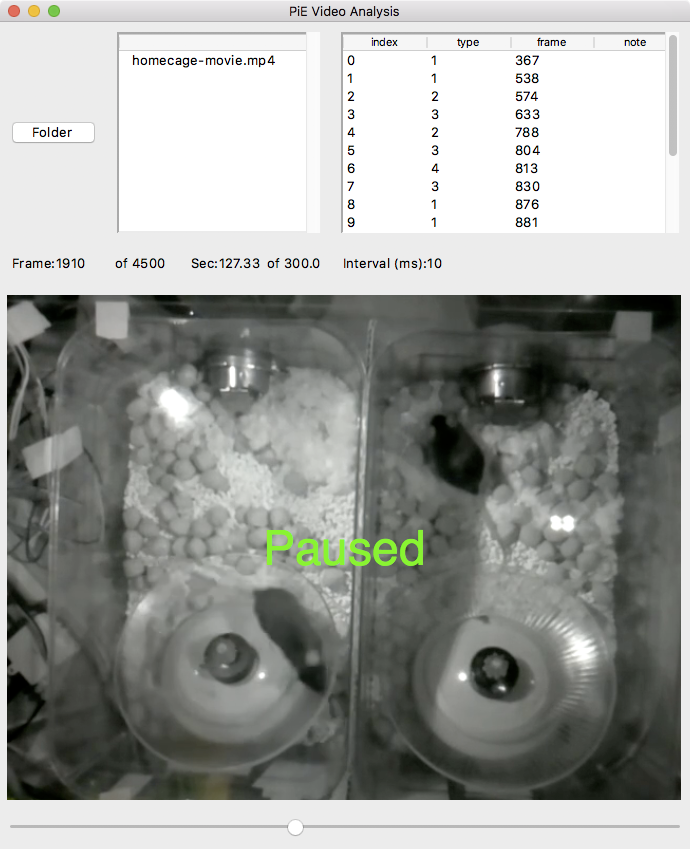
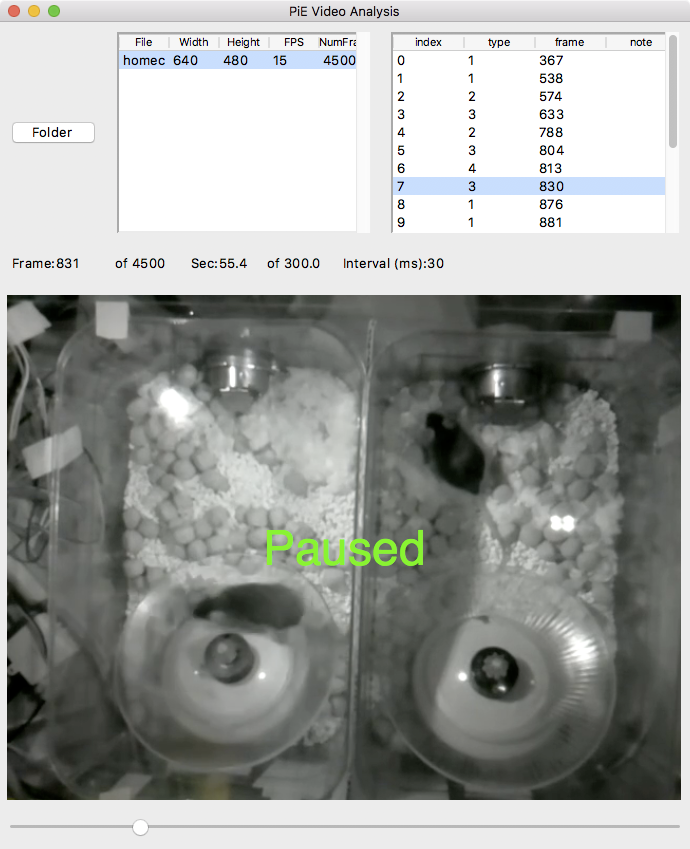
readme

diff --git a/video-player/VideoApp.py b/video-player/VideoApp.py
@@ -61,9 +61,9 @@ class VideoApp:
 		# parameters from FileVideoStream
 		path = vs.streamParams['path']
 		fileName = vs.streamParams['fileName']
-		width = vs.streamParams['width']
-		height = vs.streamParams['height']
-		fps = vs.streamParams['fps']
+		width = int(vs.streamParams['width'])
+		height = int(vs.streamParams['height'])
+		fps = int(vs.streamParams['fps'])
 		numFrames = vs.streamParams['numFrames']
 
 		self.eventList = bEventList.bEventList(path)
@@ -112,10 +112,18 @@ class VideoApp:
 		
 		#
 		# video file tree
-		left_tree = ttk.Treeview(upper_frame)
+		videoColumns = ("File", "Width", "Height", "FPS", "NumFrames")
+		left_tree = ttk.Treeview(upper_frame, columns=videoColumns, show='headings')
 		left_tree.grid(row=0,column=1, sticky="nsew", padx=myPadding, pady=myPadding)
 
-		left_tree.insert("" , "end", text=fileName, values=(width,height,fps,numFrames))
+		for column in videoColumns:
+			left_tree.heading(column, text=column)
+			left_tree.column(column, width=50)
+
+		#left_tree.heading("File", text="File")
+		#left_tree.column("File", width=25)
+		
+		left_tree.insert("" , "end", text=fileName, values=(fileName, width,height,fps,numFrames))
 
 		# video file tree scroll bar
 		videoFileTree_scrollBar = ttk.Scrollbar(upper_frame, orient="vertical", command = left_tree.yview)

diff --git a/video-player/readme.md b/video-player/readme.md
@@ -4,7 +4,43 @@ This is a Python based video player that allows frames to be annotated.
 
 ## Screenshot
 
-<IMG SRC="img/player-screenshot.png" width=500>
+Video files are listed in upper left. Annotations of current video are in upper right. Selecting an annotation from the list will snap the video to the frame of the annotation.
+
+<IMG SRC="img/player-screenshot.png" width=550>
+
+## Keyboard commands
+
+Controlling video
+
+```
+space: play/pause
+left/right arrows: Backward/forward in video
+shift + left/right arrows: Larger backward/forward in video
+f: Play video faster, sets interval (ms)
+s: Play video slower, sets interval (ms)
+```
+
+Editing annotations
+
+```
+1/2/3/4/5: Create new annotation at current frame
+n: Set note of current selected annotation
+```
+
+## Saving annotations
+
+All annotations are saved in a text file (.txt) with the same base name as the video file. For example
+
+```
+#
+index,path,cseconds,type,frame,note,
+0,/Users/cudmore/Dropbox/PiE/homecage-movie.mp4,1542328413.412974,1,367,,,
+1,/Users/cudmore/Dropbox/PiE/homecage-movie.mp4,1542328419.127083,1,538,,,
+2,/Users/cudmore/Dropbox/PiE/homecage-movie.mp4,1542328420.329067,2,574,,,
+3,/Users/cudmore/Dropbox/PiE/homecage-movie.mp4,1542328422.295312,3,633,,,
+4,/Users/cudmore/Dropbox/PiE/homecage-movie.mp4,1542330941.973472,2,788,,,
+5,/Users/cudmore/Dropbox/PiE/homecage-movie.mp4,1542330942.505339,3,804,,,
+```
 
 ## Install on macOS
 
